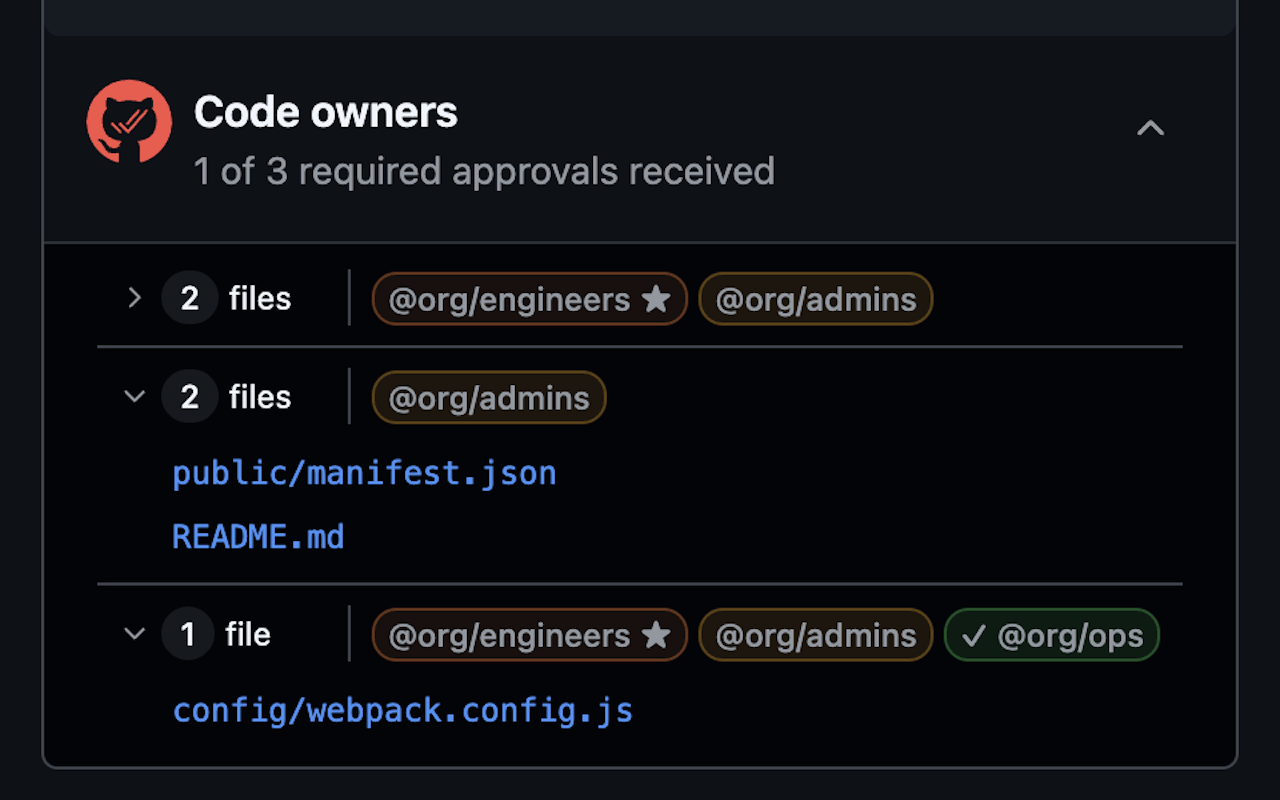
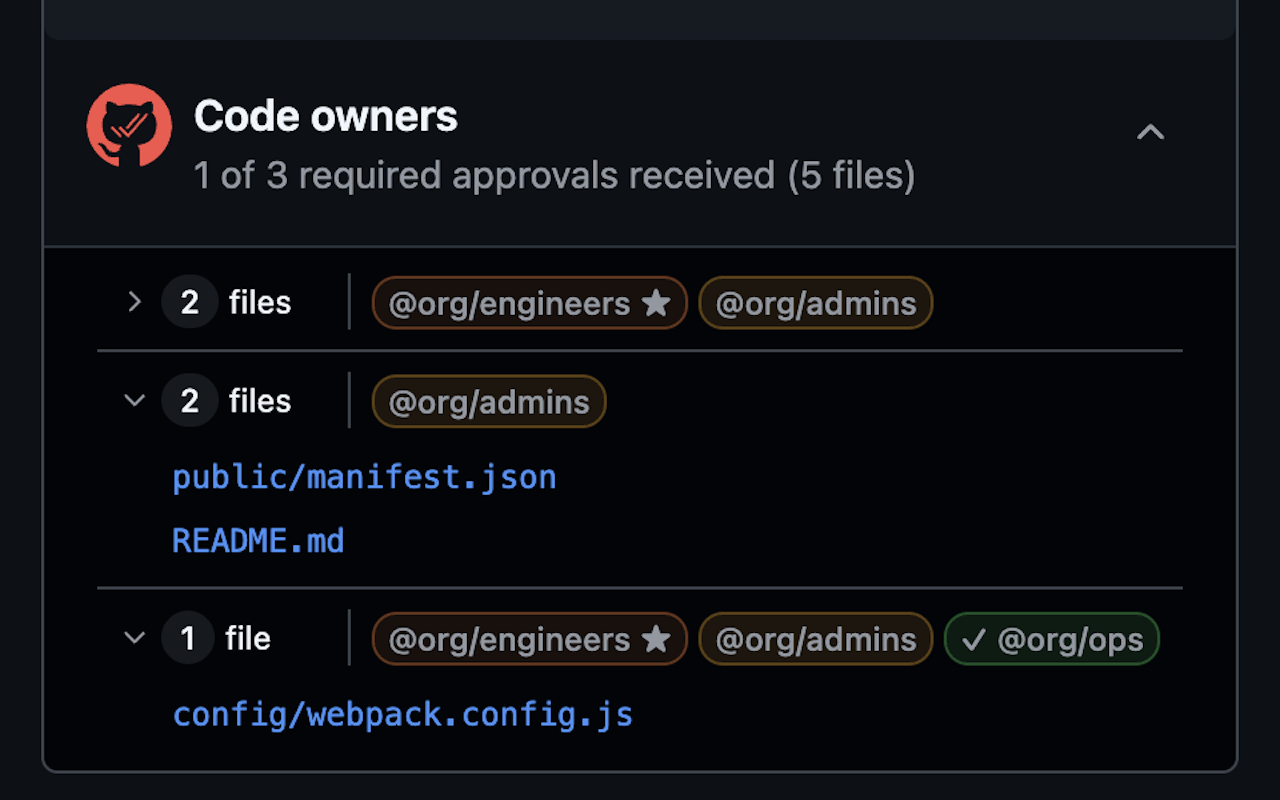
Show file count on mergebox header

diff --git a/src/merge-box.js b/src/merge-box.js
@@ -249,9 +249,14 @@ const createHeaderText = (approvalStatus) => {
   const description = document.createElement('p');
   description.classList.add('fgColor-muted', 'mb-0');
   description.id = APPROVALS_DESCRIPTION_ID;
-  description.textContent = approvalStatus
-    ? `${approvalStatus.approvalsReceived} of ${approvalStatus.totalApprovalsNeeded} required approvals received`
-    : 'Loading approval status...';
+
+  if (approvalStatus) {
+    const {approvalsReceived, totalApprovalsNeeded, totalFiles} = approvalStatus;
+    const fileText = totalFiles === 1 ? 'file' : 'files';
+    description.textContent = `${approvalsReceived} of ${totalApprovalsNeeded} required approvals received (${totalFiles} ${fileText})`;
+  } else {
+    description.textContent = 'Loading approval status...';
+  }
 
   textInner.appendChild(heading);
   textInner.appendChild(description);
@@ -452,9 +457,11 @@ const calculateApprovalStatus = (ownerGroupsMap, ownerApprovals) => {
 
   let approvalsReceived = 0;
   let totalApprovalsNeeded = 0;
+  let totalFiles = 0;
 
   for (const [, group] of ownerGroupsMap.entries()) {
     totalApprovalsNeeded++;
+    totalFiles += group.paths.length;
 
     const hasApproval =
       group.owners && group.owners.size > 0
@@ -466,7 +473,7 @@ const calculateApprovalStatus = (ownerGroupsMap, ownerApprovals) => {
     }
   }
 
-  return {approvalsReceived, totalApprovalsNeeded};
+  return {approvalsReceived, totalApprovalsNeeded, totalFiles};
 };
 
 const updateMergeBoxSectionWithContent = (
